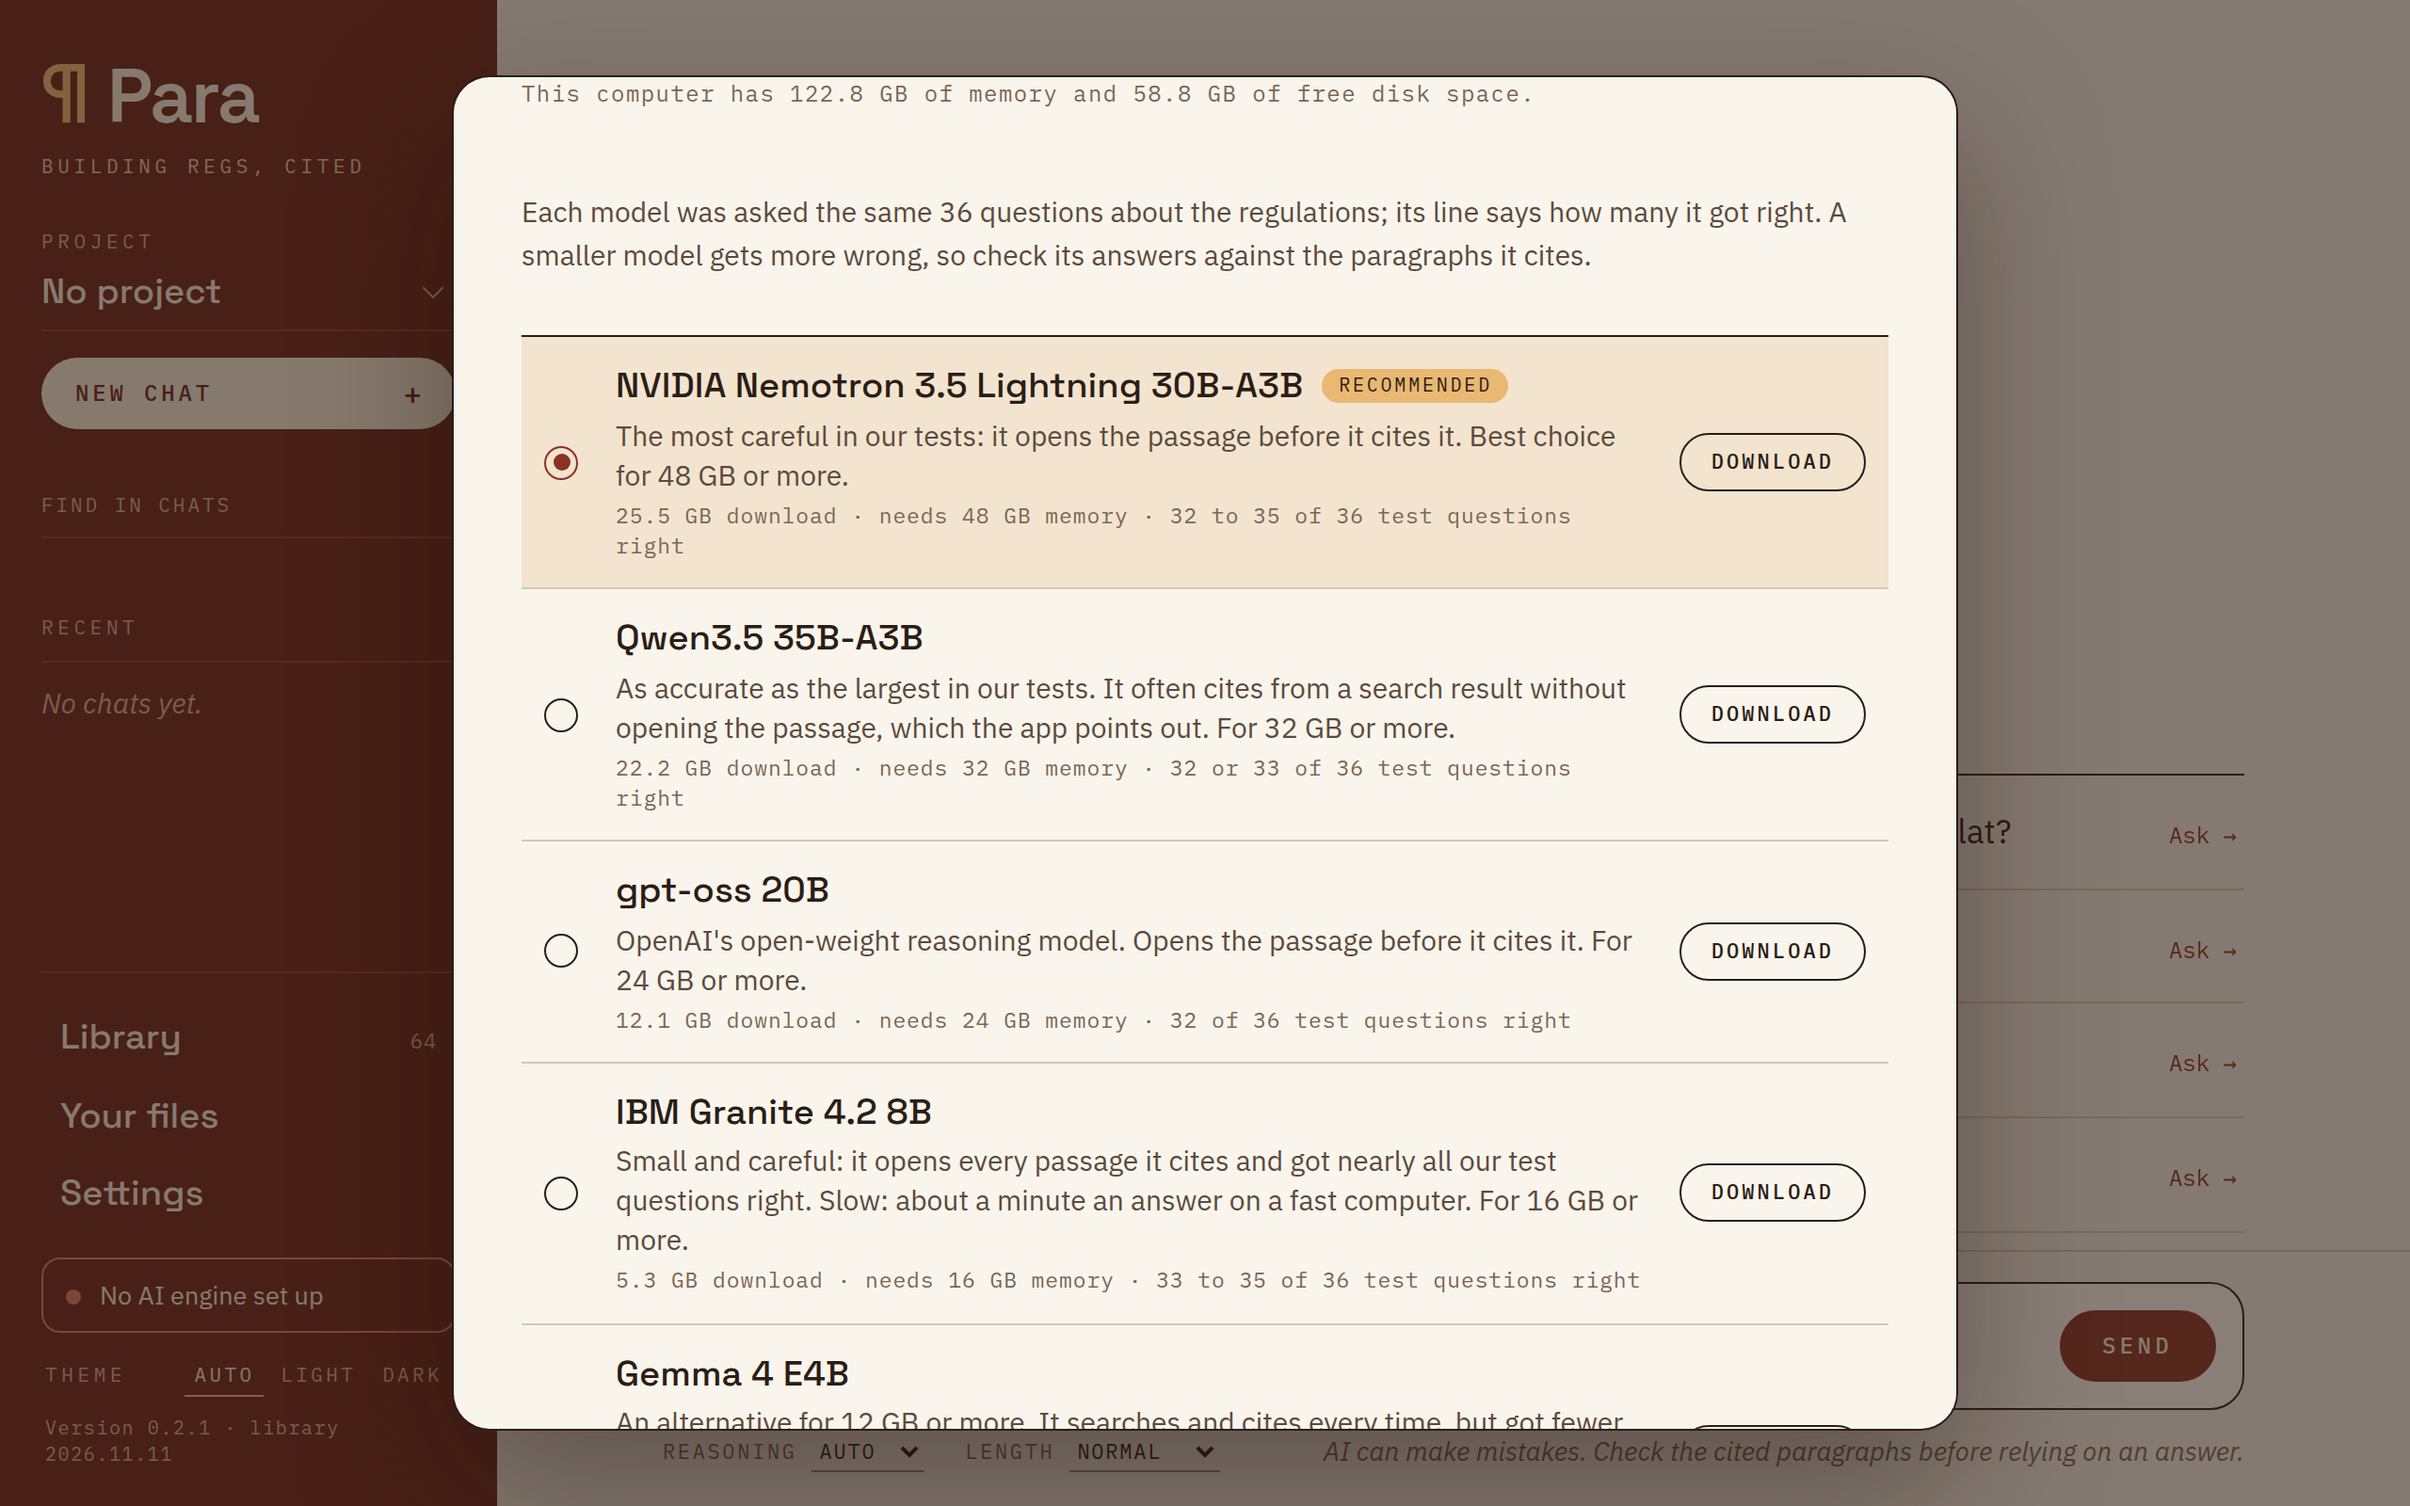
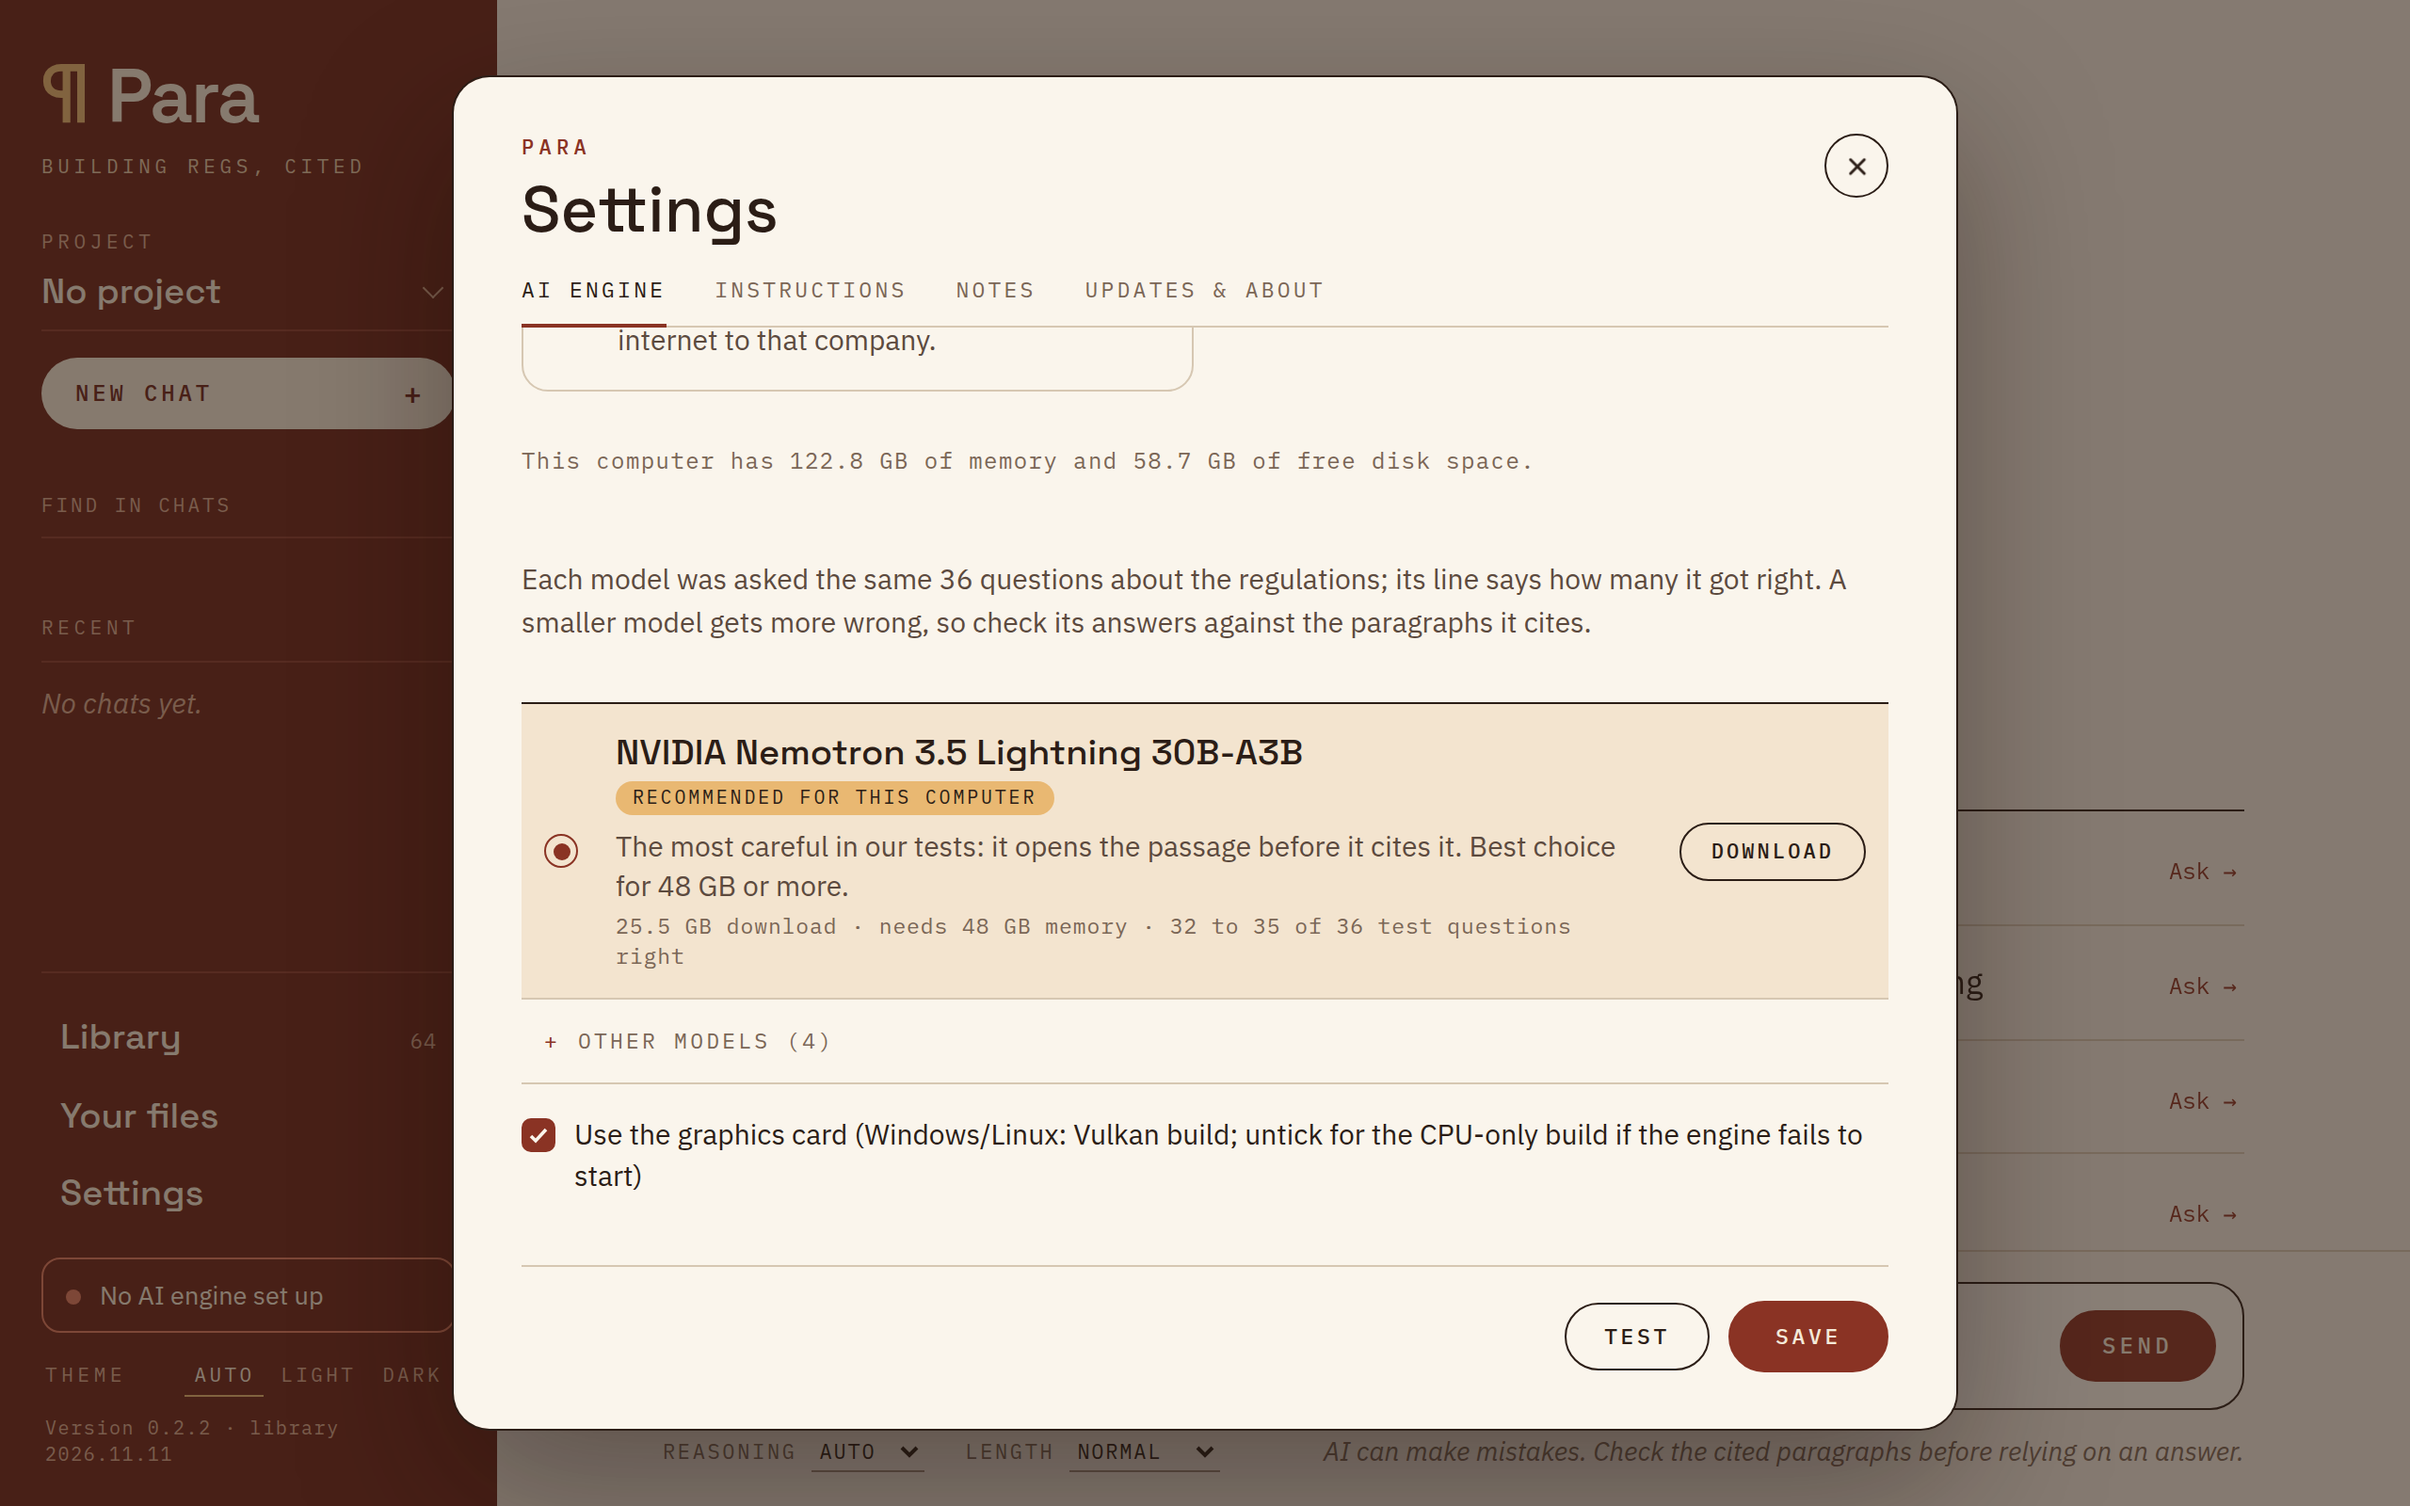
The model list puts one model forward, and two are no longer offered
Seven models in a row asked people who have never used an AI tool to choose
between names. The list now shows the one recommended for this computer's
memory (and any already downloaded or in use), with the rest under "Other
models".

Gemma 4 E4B and Qwen3 4B were never the suggestion on any computer, because
the smaller Granite 3B beat both in the tests. They are marked "retired" and
kept in the catalogue, so a copy someone downloaded still starts and can
be deleted, but they are shown only on a computer that has one.

diff --git a/para/static/app.js b/para/static/app.js
@@ -880,22 +880,35 @@ async function loadModels(quiet) {
   } catch (e) { if (!quiet) $("#testResult").textContent = e.message; }
 }
 $("#loadModels").onclick = () => loadModels(false);
-let chosenBundled = null;
+let chosenBundled = null, othersOpen = false;
 function renderBundled() {
   const b = S.bundled;
   $("#machineInfo").textContent = `This computer has ${b.ram_gb} GB of memory and ${b.free_gb} GB of free disk space.`;
   chosenBundled = chosenBundled || S.settings.engine.bundled_model || S.recommended;
-  $("#modelCards").innerHTML = S.catalog.map((m) => {
+  // One model is put forward: the one suggested for this computer, with any already downloaded or in use. The rest
+  // wait under "Other models", so nobody has to choose between seven. A retired model shows only if it's here.
+  const mine = (m) => b.models.includes(m.id) || m.id === S.settings.engine.bundled_model;
+  const offered = S.catalog.filter((m) => !m.retired || mine(m));
+  const first = (m) => m.id === S.recommended || mine(m);
+  const card = (m) => {
     const installed = b.models.includes(m.id);
     const tooBig = m.min_ram_gb > b.ram_gb + 0.5;
     return `<label class="model-card ${m.id === chosenBundled ? "selected" : ""}${tooBig ? " too-big" : ""}">
       <input type="radio" name="bmodel" value="${esc(m.id)}" ${m.id === chosenBundled ? "checked" : ""}>
-      <div class="info"><b>${esc(m.name)}</b>${m.id === S.recommended ? '<span class="tag">Recommended</span>' : ""}<br>
+      <div class="info"><b>${esc(m.name)}</b>${m.id === S.recommended ? '<span class="tag">Recommended for this computer</span>' : ""}<br>
       <small class="muted">${esc(m.about)}</small><small class="meta">${m.size_gb} GB download · needs ${m.min_ram_gb} GB memory${m.tested ? ` · ${esc(m.tested)} test questions right` : ""}${tooBig ? " — too big for this computer" : ""}</small></div>
       ${installed ? `<span class="installed">Installed</span> <button type="button" class="btn danger" data-remove="${esc(m.id)}">Delete</button>`
         : `<button type="button" class="btn" data-install="${esc(m.id)}">Download</button>`}
     </label>`;
-  }).join("");
+  };
+  const shown = offered.filter(first), others = offered.filter((m) => !first(m));
+  const job = b.jobs.install;
+  if (others.some((m) => m.id === chosenBundled) || (job && job.state === "running")) othersOpen = true;
+  $("#modelCards").innerHTML = !shown.length ? offered.map(card).join("")
+    : shown.map(card).join("") + (others.length ? `<details class="other-models"${othersOpen ? " open" : ""}>
+      <summary>Other models (${others.length})</summary>${others.map(card).join("")}</details>` : "");
+  const more = $("#modelCards details");
+  if (more) more.ontoggle = () => { othersOpen = more.open; };
   $$("input[name=bmodel]").forEach((r) => r.onchange = () => { chosenBundled = r.value; renderBundled(); });
   $$("[data-install]").forEach((x) => x.onclick = async (e) => {
     e.preventDefault();

diff --git a/para/static/app.css b/para/static/app.css
@@ -501,13 +501,20 @@ input[type=checkbox]:checked { background-color: var(--accent); border-color: va
 .model-card input[type=radio] { margin: 0; }
 .model-card .info { display: block; min-width: 0; }
 .model-card .info small { display: block; margin-top: 3px; }
-.model-card .info b { font: 500 19px/1.3 var(--display); }
+.model-card .info b { font: 500 19px/1.3 var(--display); margin-right: 10px; }   /* not on the tag: it can wrap under the name */
 .model-card .info br { display: none; }
 .model-card .info small.muted { font-size: 15px; line-height: 1.4; }
 .model-card .meta { font: 11.5px/1.4 var(--mono); letter-spacing: .04em; color: var(--muted-2); }
-.model-card .tag { display: inline-block; vertical-align: 3px; margin-left: 10px; background: var(--gold); color: #2b1d16;
+.model-card .tag { display: inline-block; vertical-align: 3px; background: var(--gold); color: #2b1d16;
   border-radius: 999px; padding: 2px 9px; font: 10px/1.4 var(--mono); letter-spacing: .14em; text-transform: uppercase; }
 .model-card .btn { padding: 8px 16px; font-size: 11px; letter-spacing: .14em; }
+.other-models summary { cursor: pointer; user-select: none; list-style: none; display: flex; gap: 8px; padding: 14px 12px;
+  border-bottom: 1px solid var(--border); font: 11.5px/1.4 var(--mono); letter-spacing: .14em; text-transform: uppercase;
+  color: var(--muted-2); }
+.other-models summary::-webkit-details-marker { display: none; }
+.other-models summary::before { content: "+"; color: var(--accent); width: 10px; }
+.other-models[open] summary::before { content: "\2212"; }
+.other-models summary:hover, .other-models[open] summary { color: var(--accent); }
 .installed { font: 11px var(--mono); letter-spacing: .14em; text-transform: uppercase; color: var(--ok); }
 #jobView:not(:empty) { display: flex; flex-direction: column; gap: 8px; align-items: flex-start; padding: 14px 16px;
   border: 1px solid var(--border); border-radius: 12px; font-size: 15px; }

diff --git a/para/engine.py b/para/engine.py
@@ -133,11 +133,13 @@ def _process_command(pid):
 
 def recommend(models=None, ram=None):
     """The best catalogue model for this computer's memory (Macs share memory with the GPU: ~75% usable): the
-    biggest that fits. A model with "suggest": false is listed but never the suggestion: a smaller one did better
-    in our tests, so needing more memory doesn't make it the better choice."""
+    biggest that fits. A model with "suggest": false is listed but never the suggestion, and a "retired" one is no
+    longer offered at all (it stays in the catalogue so a copy someone downloaded keeps working): a smaller one did
+    better in our tests, so needing more memory doesn't make it the better choice."""
     models = models if models is not None else catalog()["models"]
     ram = total_ram_gb() if ram is None else ram
-    fits = [m for m in models if m.get("min_ram_gb", 0) <= ram + 0.5 and m.get("suggest", True)]
+    fits = [m for m in models if m.get("min_ram_gb", 0) <= ram + 0.5 and m.get("suggest", True)
+            and not m.get("retired")]
     return max(fits, key=lambda m: m.get("min_ram_gb", 0)) if fits else None
 
 

diff --git a/tests/test_app.py b/tests/test_app.py
@@ -905,7 +905,10 @@ check(rel["tag_name"] == "b2" and asset["name"].startswith("llama-b2"), "finds t
 picks = {ram: (engine.recommend(ram=ram) or {}).get("id") for ram in (4, 8, 12, 16, 24, 32, 64)}
 check(picks[4] is None and picks[16] == "granite-4.2-8b" and picks[64] == "nemotron-3.5-lightning-30b",
       "the suggested model is the biggest that fits this computer's memory")
-check(picks[8] == picks[12] == "granite-4.2-3b", "a model that a smaller one beat is listed but not suggested")
+check(picks[8] == picks[12] == "granite-4.2-3b", "a model that a smaller one beat is never suggested")
+retired = [m for m in engine.catalog()["models"] if m.get("retired")]
+check(retired and all(m["id"] not in picks.values() for m in retired),
+      "a retired model stays in the catalogue, for copies already downloaded, and is never suggested")
 check(all(m.get("tested") for m in engine.catalog()["models"]), "every listed model says how it did in our tests")
 
 # built-in engine memory: no load that won't fit, no engine left behind, none kept running idle

diff --git a/README.md b/README.md
@@ -107,22 +107,18 @@ each model too:
 | 16 GB | IBM Granite 4.2 8B | 5.3 GB | 33 to 35 | Apache 2.0 |
 | 8 or 12 GB | IBM Granite 4.2 3B | 2.2 GB | 29 to 31 | Apache 2.0 |
 
-Two more are listed but not suggested, because the small Granite did better:
-
-| Needs | Model | Download | Right, of 36 | Licence |
-|---|---|---|---|---|
-| 12 GB | Gemma 4 E4B | 5.0 GB | 22 to 27 | Apache 2.0 |
-| 8 GB | Qwen3 4B Instruct 2507 | 2.5 GB | 20 to 25 | Apache 2.0 |
+The app puts that one model forward, marked "Recommended for this computer"; the others are a click away under
+"Other models".
 
 Granite 4.2 8B is small and got as many right as the biggest, but it is slow: about a minute an answer on a fast
 computer and longer on a laptop. You can pick it on a bigger computer too, or the 3B on a 16 GB one if you'd rather
 have quicker answers and check them more.
 
-The small models get more wrong: Granite 3B about one question in six, Gemma and the Qwen3 4B about one in three.
-Gemma mostly fails by saying it can't find something that is in the library; the 4B answers in a few seconds but
-never opens the passage it cites and sometimes gives a figure from memory. With any of them, open each cited
-paragraph before you rely on the answer: the app marks citations the AI didn't read in full and figures the cited
-paragraph doesn't hold. The questions and every model's results are in [docs/model-tests.md](docs/model-tests.md).
+The small model gets more wrong: Granite 3B about one question in six. Open each cited paragraph before you rely
+on an answer: the app marks citations the AI didn't read in full and figures the cited paragraph doesn't hold.
+Gemma 4 E4B and Qwen3 4B Instruct 2507 were offered until November 2026 and no longer are, because the small
+Granite did better; a copy you already downloaded keeps working. The questions and every model's results are in
+[docs/model-tests.md](docs/model-tests.md).
 
 The model list ([para/models.json](para/models.json)) is also published with each release, so installed
 copies pick up better models without reinstalling.

diff --git a/DESIGN.md b/DESIGN.md
@@ -181,10 +181,13 @@ buttons and pills 999 px, close buttons a 34 px circle. Spacing in multiples of 
   picker's, in the dialog's colours: ruled rows in mono on `--panel`, the chosen one marked with an accent ¶. Opening it
   shows every model (a native datalist would show only those matching the name already in the box) and selects the
   name, so typing filters the list; any name can still be typed. It opens upwards when the dialog has no room below.
-- **Model rows**: ruled rows with a radio, name, Recommended tag (gold pill), description, mono size and memory line
-  ending in how many of the 36 test questions the model got right ("33 to 35 of 36 test questions right"),
-  and an action (Download, or Installed and Delete). Models too big for this computer are faded with the size line
-  in red.
+- **Model rows**: ruled rows with a radio, name, the gold pill "Recommended for this computer" on the one chosen from
+  the computer's memory, description, mono size and memory line ending in how many of the 36 test questions the model
+  got right ("33 to 35 of 36 test questions right"), and an action (Download, or Installed and Delete). Only the
+  recommended model and any already downloaded or in use are shown; the rest sit under a collapsed mono line, "+ Other
+  models (4)", like the activity list, so nobody has to choose between a list of names. It opens by itself when one of
+  them is chosen or downloading. Models too big for this computer are faded with the size line in red. A model no
+  longer offered (`"retired"` in `models.json`) shows only on a computer that has it.
 - **Library list**: a three-column grid (short name, title with the edition in italic under it, date) so long
   edition text can't squeeze the titles.
 - **Changed in this edition** (`.lib-changes`): at the top of the Library after an update, collapsed like a drawing's

diff --git a/AGENTS.md b/AGENTS.md
@@ -185,7 +185,8 @@ memory, and on a Strix Halo a GPU load that didn't fit has crashed the whole sys
   collection or page path), run `library/build.py`, check its passages, and add a short name in `build.SHORT` if
   the automatic one is clumsy.
 - **A new built-in model**: add it to `para/models.json` with the exact Hugging Face repo and file, size and memory
-  needed. Test it answers with citations through the built-in engine before listing it.
+  needed. Test it answers with citations through the built-in engine before listing it. To stop offering one, mark it
+  `"retired": true`; don't delete it, or a copy someone downloaded stops working.
 - **A new API endpoint**: in `server.Handler`, return JSON through `_send`, and add a check to `tests/test_app.py`.
 - **A hosted service**: add it to `llm.HOSTED` (name, base URL, where it's based, the page for keys, an example
   model). It must take the standard `/chat/completions` API with a Bearer key; never add code for one service. A key
